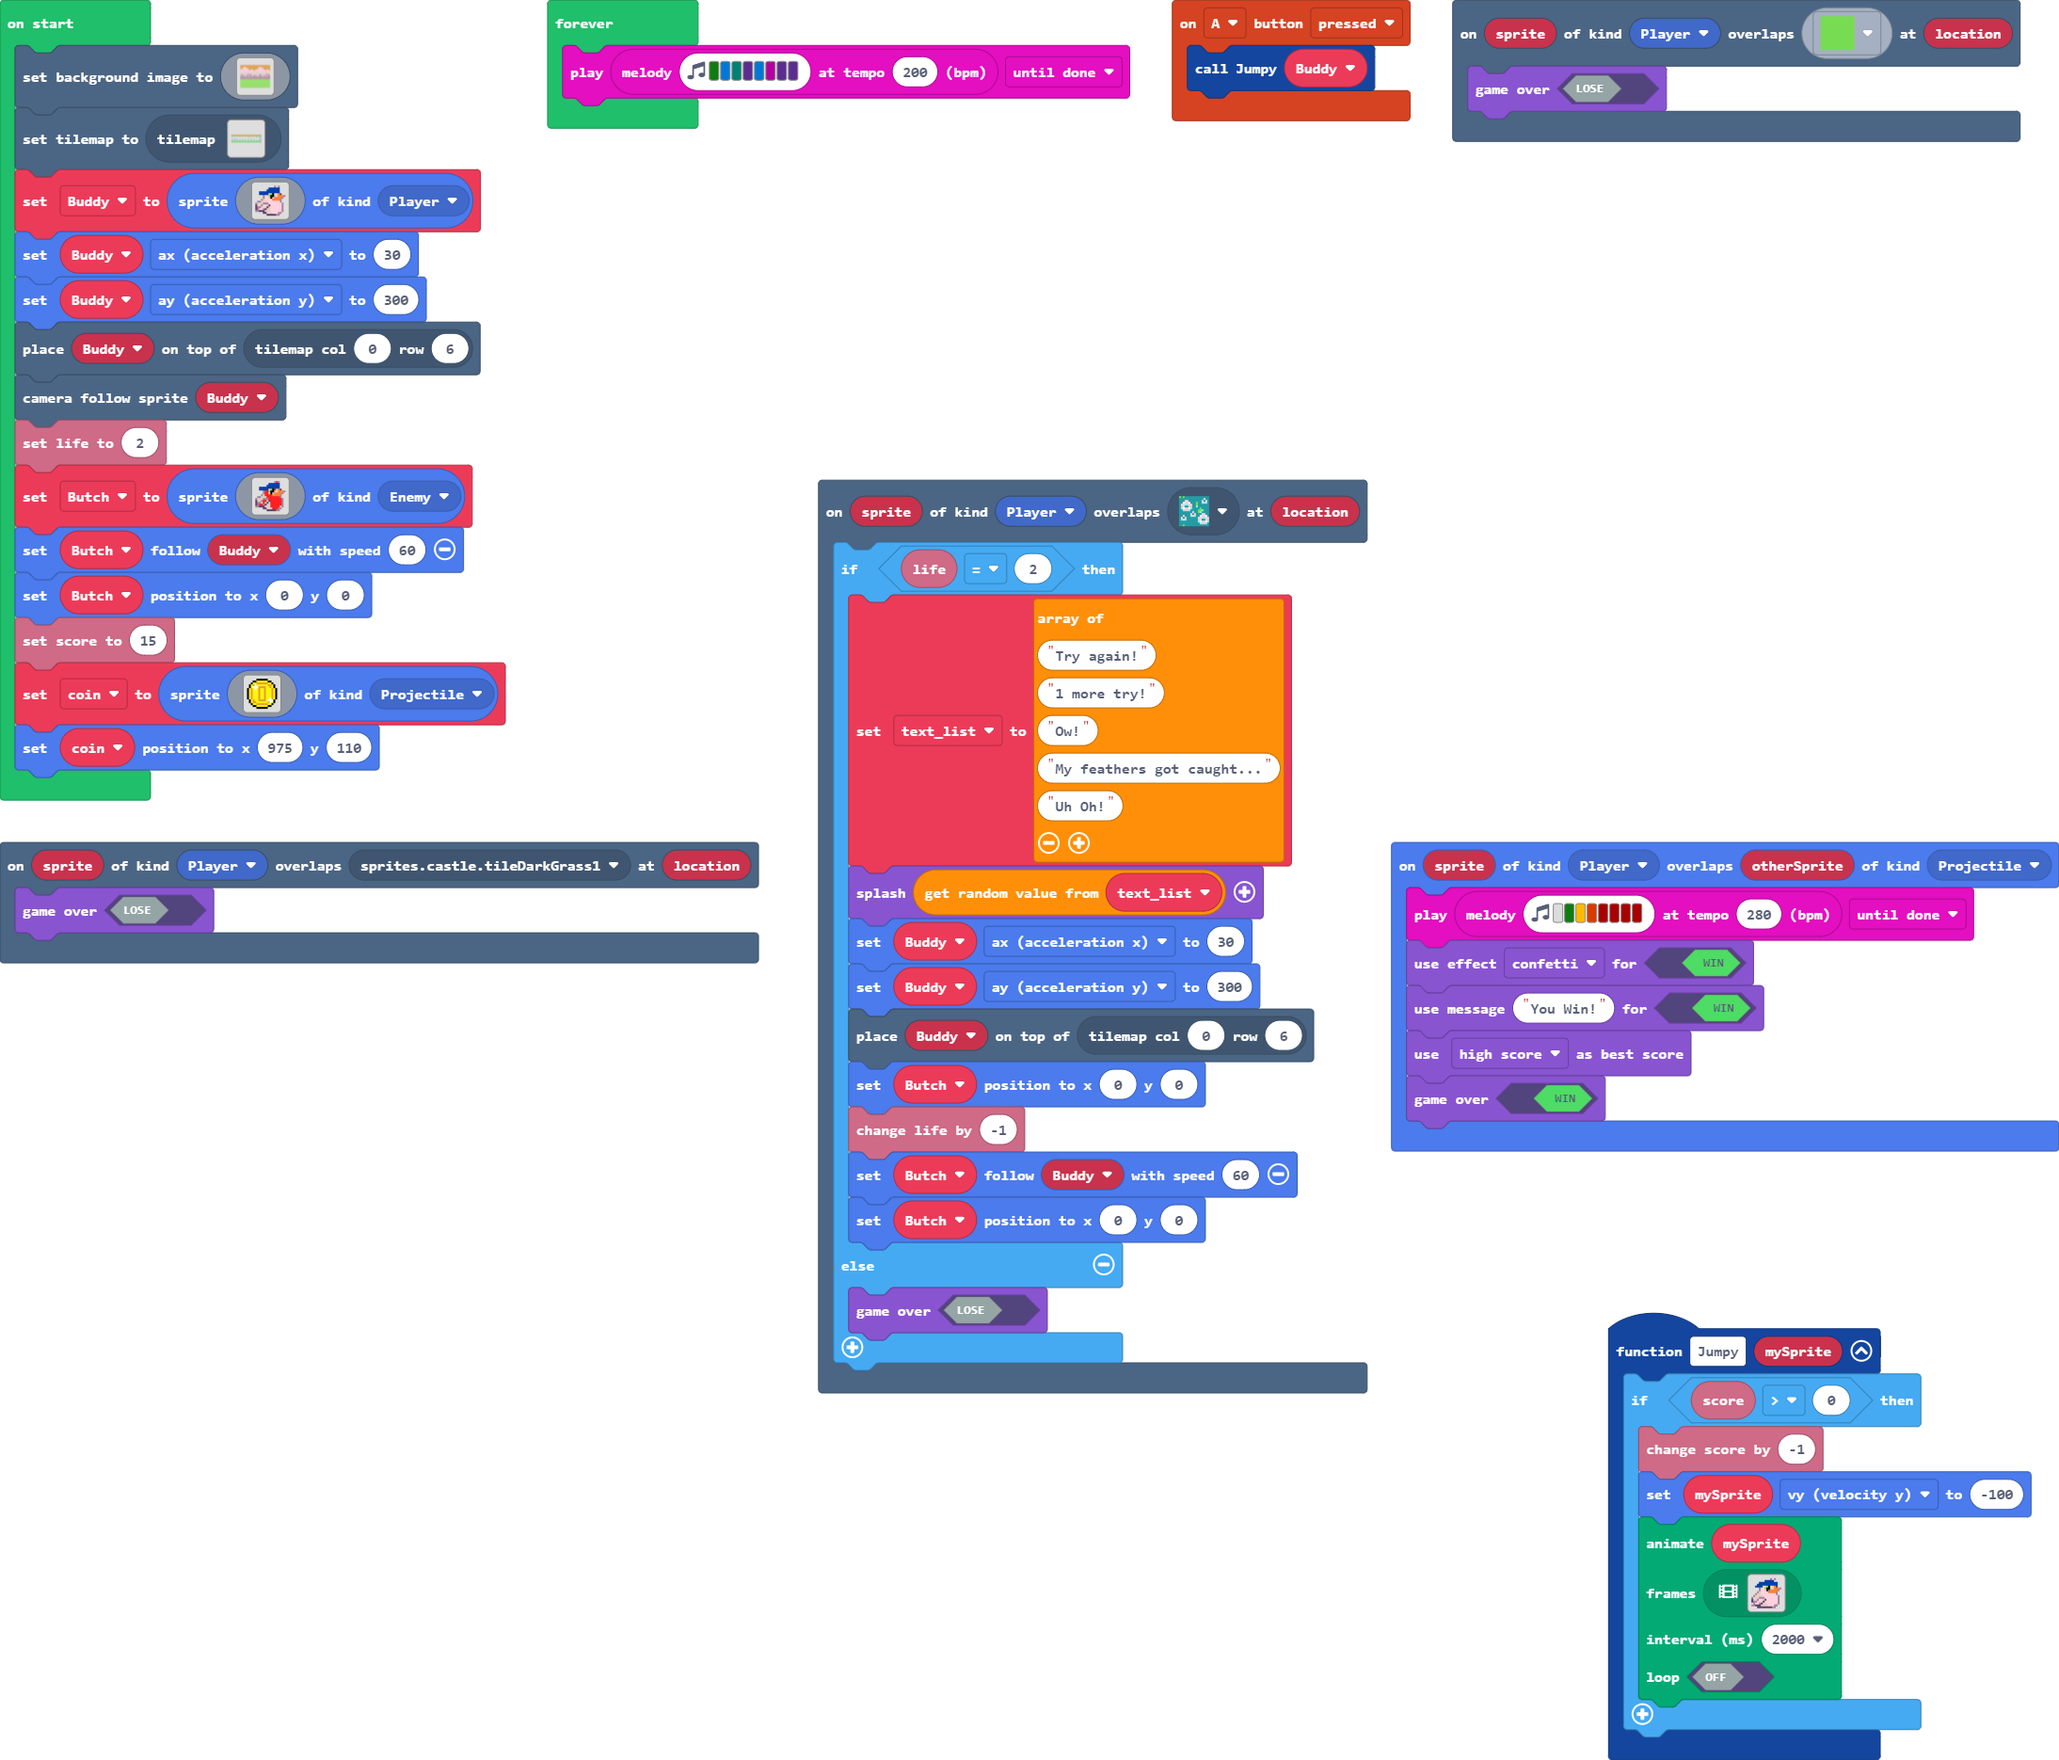
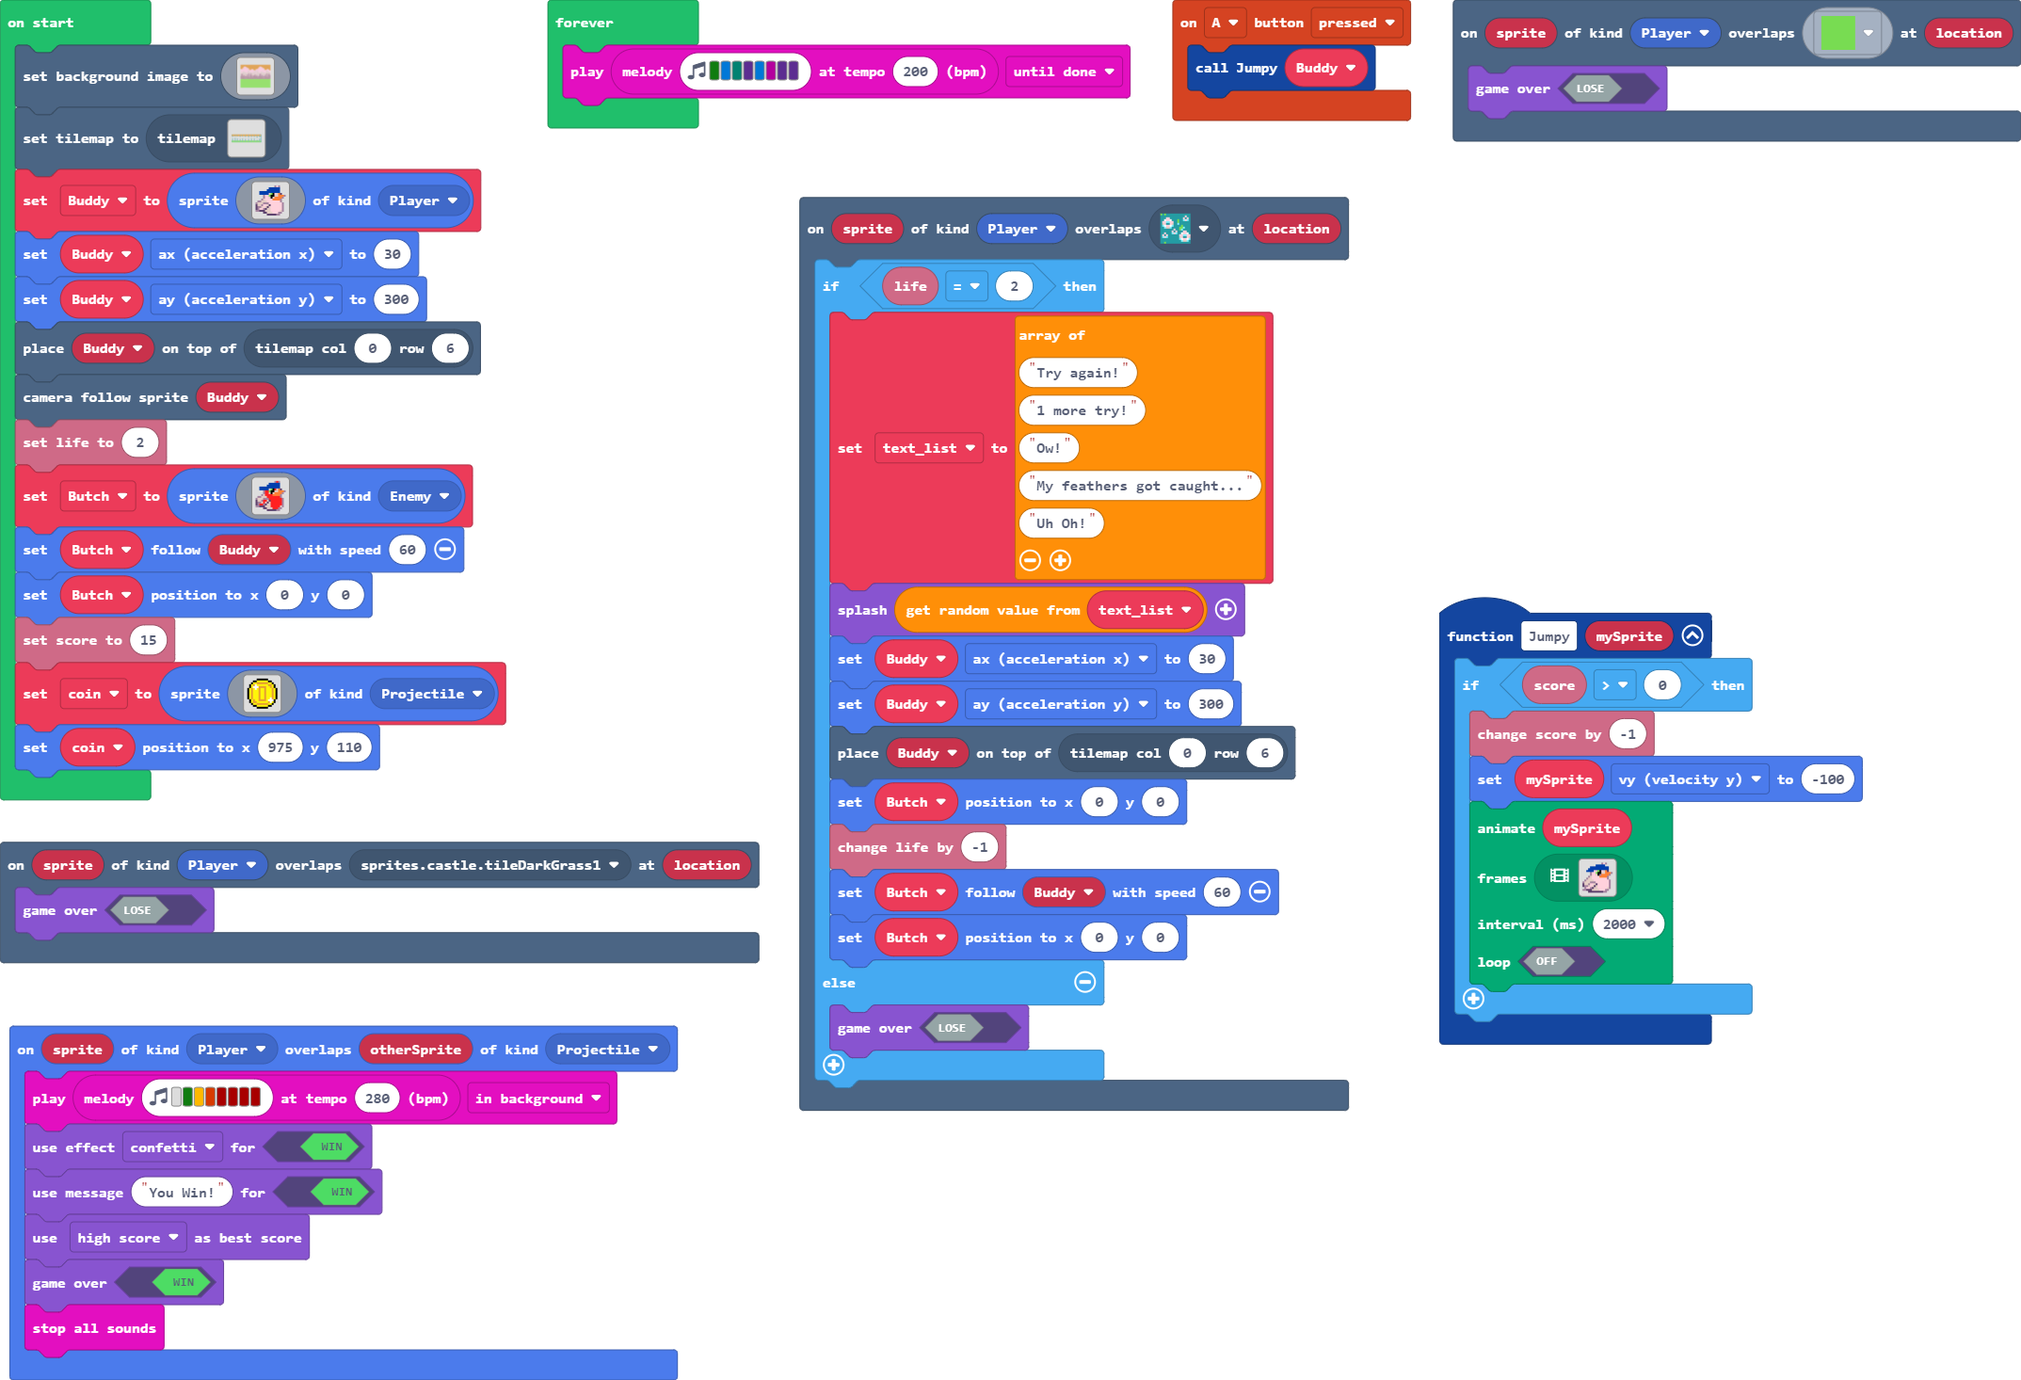
Update main.blocks, main.ts

diff --git a/main.ts b/main.ts
@@ -71,11 +71,12 @@ scene.onOverlapTile(SpriteKind.Player, sprites.skillmap.islandTile4, function (s
     game.gameOver(false)
 })
 sprites.onOverlap(SpriteKind.Player, SpriteKind.Projectile, function (sprite, otherSprite) {
-    music.play(music.stringPlayable("- G A B C5 C5 C5 C5 ", 280), music.PlaybackMode.UntilDone)
+    music.play(music.stringPlayable("- G A B C5 C5 C5 C5 ", 280), music.PlaybackMode.InBackground)
     game.setGameOverEffect(true, effects.confetti)
     game.setGameOverMessage(true, "You Win!")
     game.setGameOverScoringType(game.ScoringType.HighScore)
     game.gameOver(true)
+    music.stopAllSounds()
 })
 scene.onOverlapTile(SpriteKind.Player, sprites.castle.tileDarkGrass2, function (sprite, location) {
     if (info.life() == 2) {
